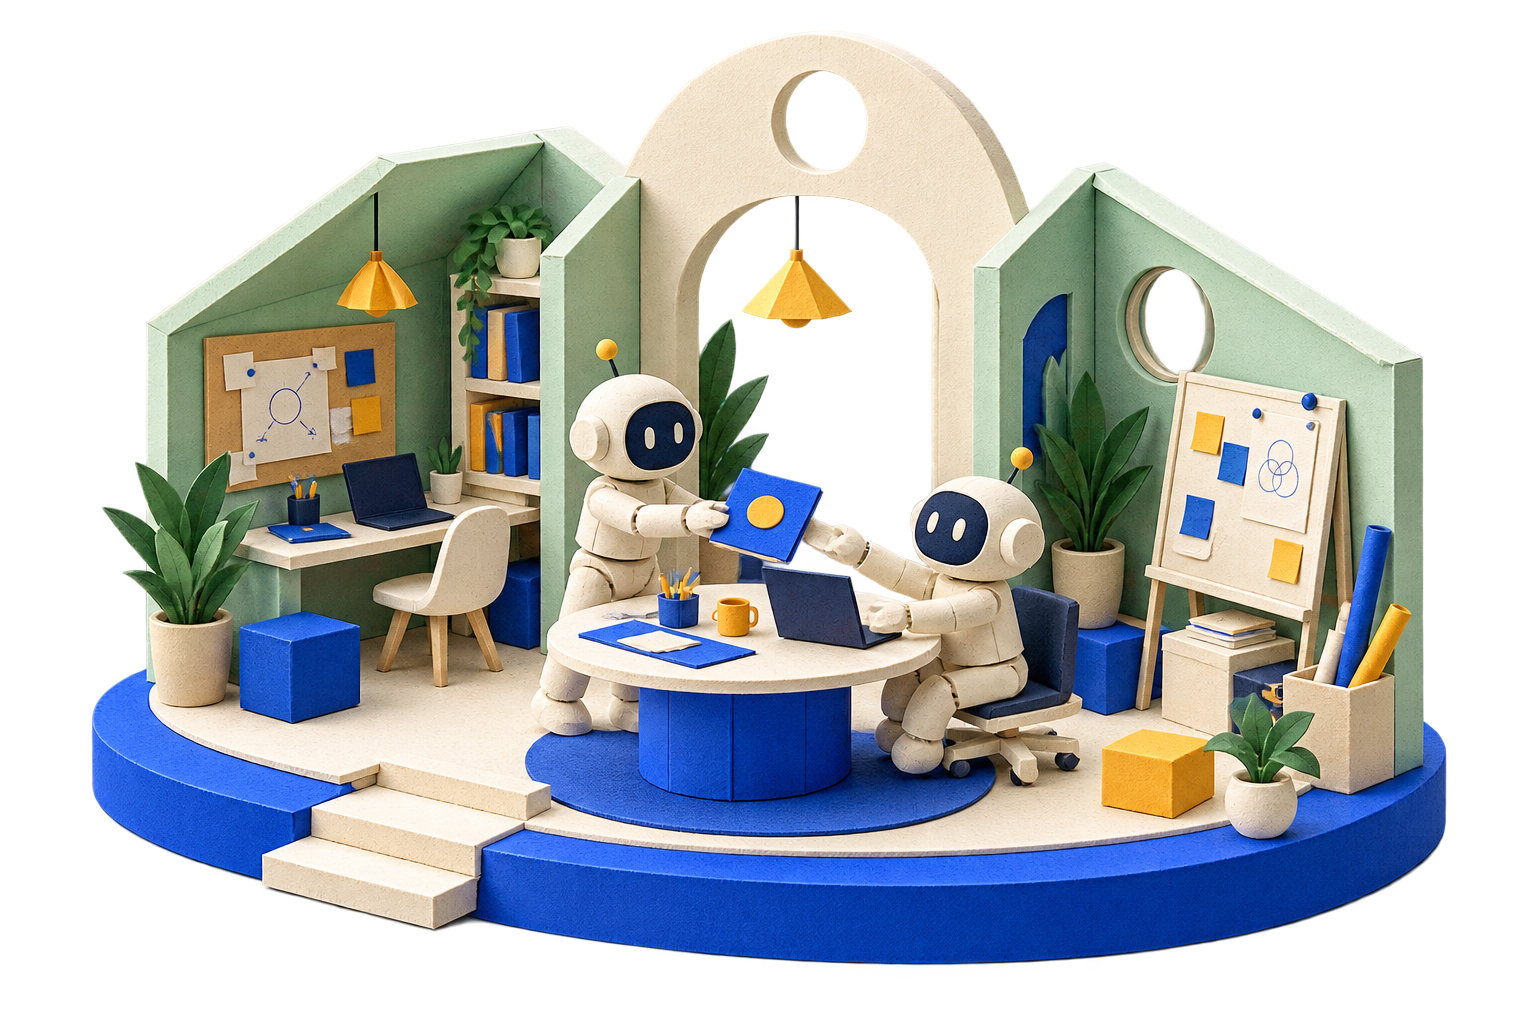
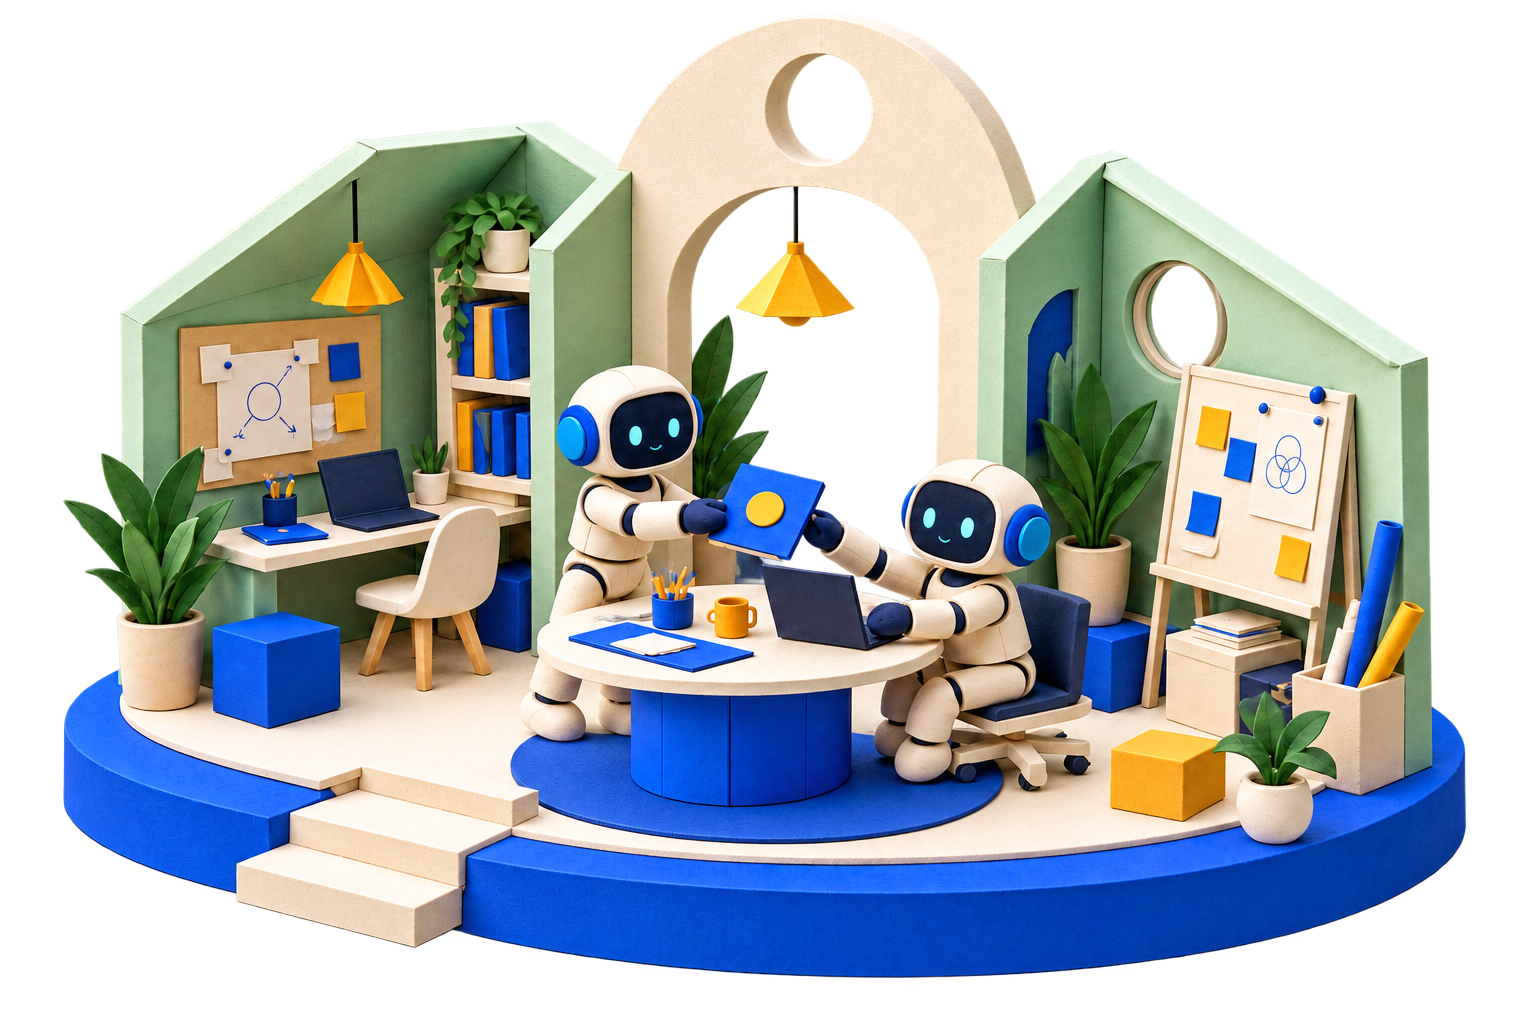
fix(art): match organization robots to shared character

diff --git a/docs/page-illustration-checklist.md b/docs/page-illustration-checklist.md
@@ -710,6 +710,7 @@ Admin layout consolidation: all 18 local leaf callers and 15 additional stock ad
 
 ### Approved Explore illustration verification
 
+- User-requested replacement of `orgs-papercraft.png` matches both robots to the dashboard identity while retaining the collaborative workspace scene. Built-in generation prompts and provenance: `assets/branding/forgejo/orgs-art-prompt.md`. PNG verified as 1536×1024 RGBA with alpha 0–254. Native guest desktop capture `.artifacts/screenshots/capture-qglOdu/001.png` inspected: updated artwork fits with clean transparent edges. Previously recorded empty-state button-text defect persists, unrelated to this image replacement. No templates or CSS changed; automated tests not rerun for the PNG replacement.
 - Retain the existing repository/code-folder, people and organization-workspace illustrations. Reviewed all three Explore wrappers, people/organization branches, native navbar delegation and custom empty-state branches. Empty states need no second generated image beneath the existing page artwork.
 - Native desktop captures inspected: `.artifacts/screenshots/capture-0c67pa/001.png` repositories, `002.png` people and `003.png` organizations. Matching mobile captures: `.artifacts/screenshots/capture-nhV5sL/001.png` through `003.png` at 390×844. Each header image fits without clipping; directory/empty-state content stays separate.
 - Desktop `capture-0c67pa/004.png`, requested at `/explore/code`, displays the repository directory. It is not code-search verification; that row remains Integrated — verify.

diff --git a/assets/branding/forgejo/orgs-art-prompt.md b/assets/branding/forgejo/orgs-art-prompt.md
@@ -1,0 +1,13 @@
+# Organizations robot consistency edit
+
+Built-in image tool. References: previous `orgs-papercraft.png` as edit target and `dashboard-papercraft.png` as robot identity. Selected image copied unchanged from `exec-5a93f4cf-c341-4d49-8146-be0422dd7e50.png` in this task's Codex generated-images directory. 1536×1024 RGBA, alpha range 0–254. Earlier RGB candidates were rejected.
+
+## Identity edit prompt
+
+Change only the two robot characters in the first image to match the robot in the second image. Both should have its cream helmet, dark navy face screen, cyan oval eyes and smile, cobalt blue circular ears, navy hands and joints, and no antennas. Keep the exact original scene, framing, props, lighting and background unchanged.
+
+## Final transparency edit
+
+Input: `exec-07fd7bde-a8a4-4b4e-9da4-1b46372727f1.png`.
+
+Remove the background from this image. Deliver the papercraft diorama as an isolated transparent-background PNG with alpha transparency. Keep the scene unchanged.
